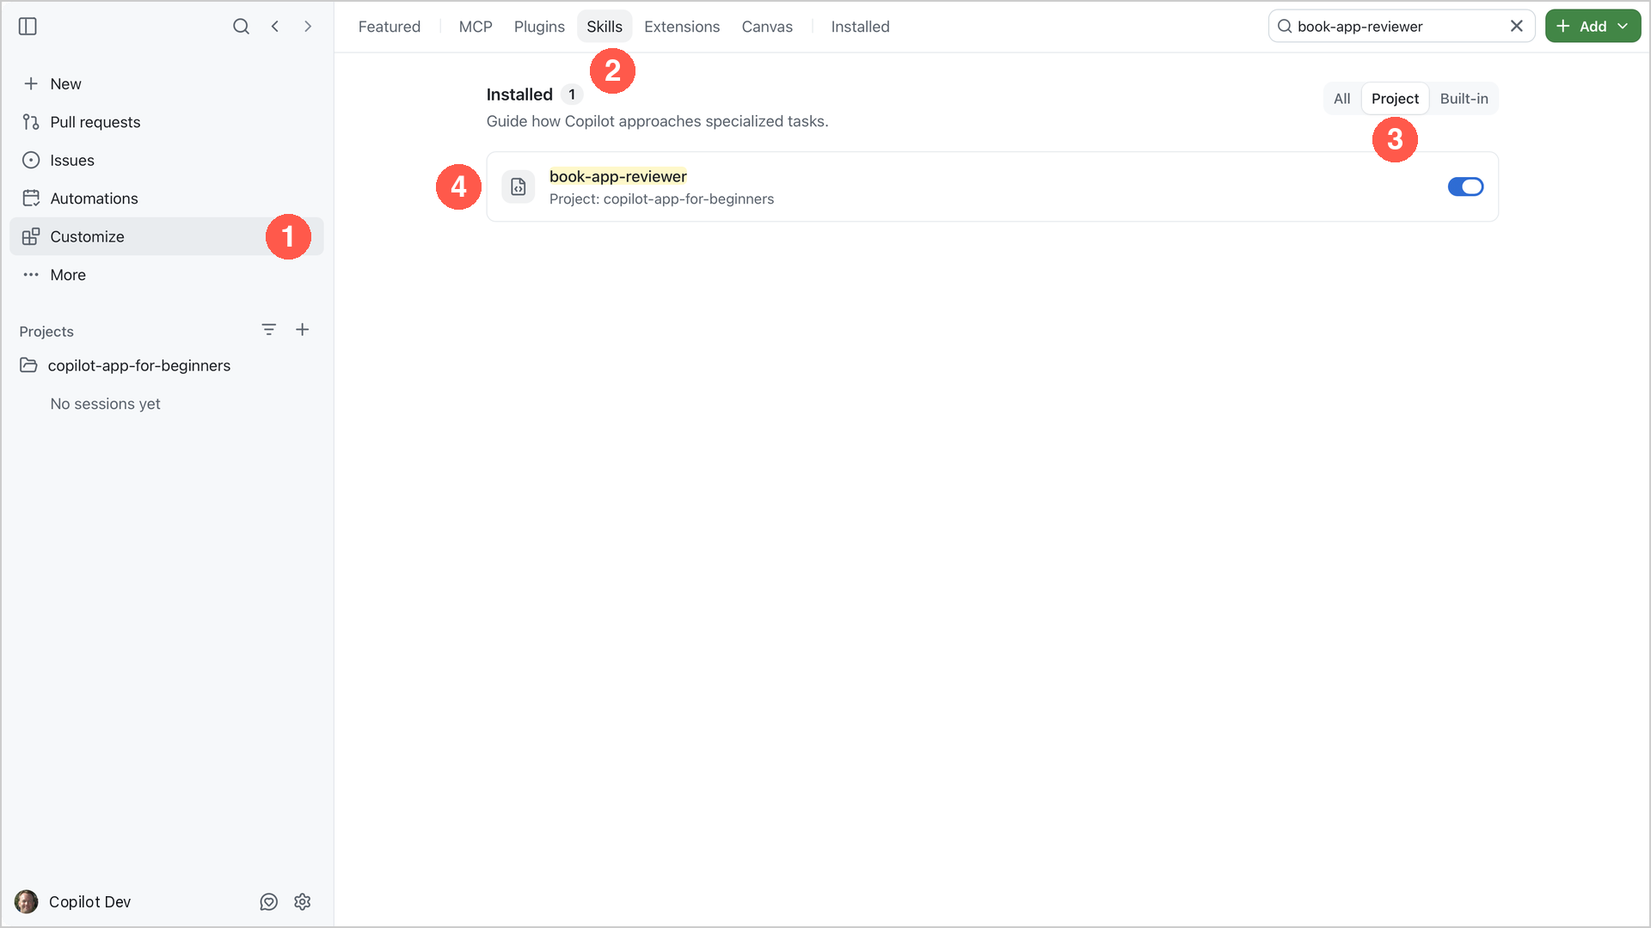
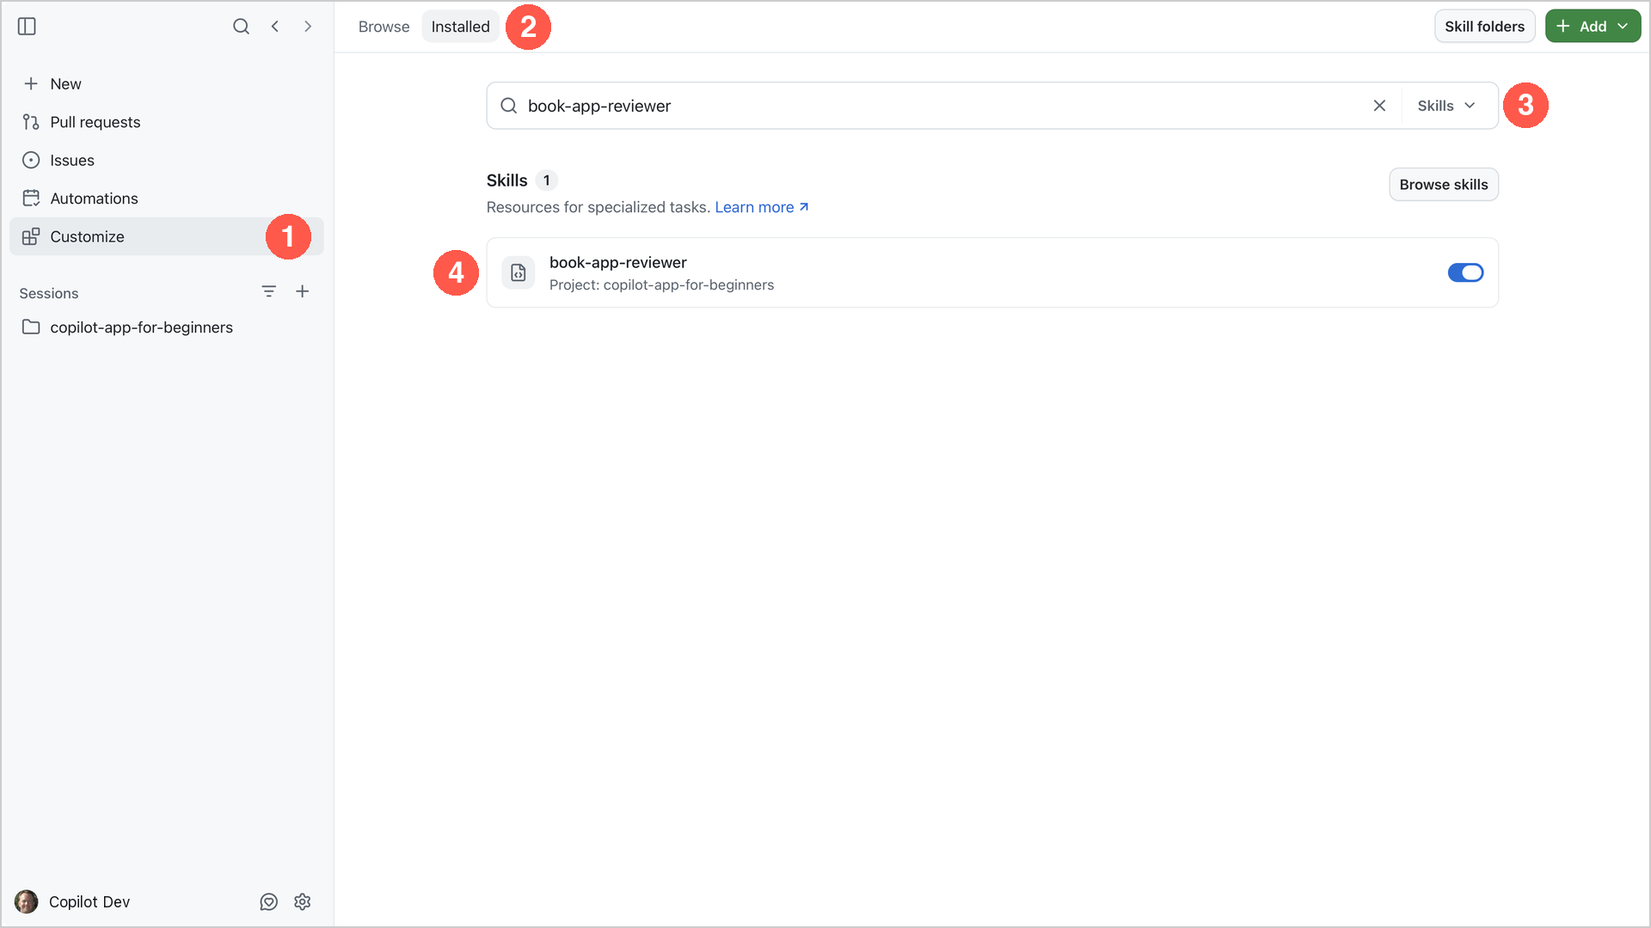
Update Customize and sidebar content for app 1.1.30
Customize now has Browse and Installed tabs with a type filter, and the
sidebar heading is Sessions with no More menu. Update chapter steps, the
troubleshooting appendix, the automation skill UI map, and retake the
three Customize screenshots.

diff --git a/.github/skills/github-copilot-app-automation/references/app-ui-map.md b/.github/skills/github-copilot-app-automation/references/app-ui-map.md
@@ -1,6 +1,6 @@
 # GitHub Copilot app UI Map
 
-- app_version: 1.1.26
+- app_version: 1.1.30 (Customize view and sidebar); other sections 1.1.26
 - captured: 2026-09-30, checked again on 2026-10-01 for 1.1.26 (macOS, `demo`
   persona, Streamer Mode on)
 - privacy: project names, session names, pull request titles, and the account name
@@ -44,11 +44,10 @@ update and diff against this file.
 ## Sidebar (navigation)
 
 - Toggle sidebar (checkbox) · Search · Back · Forward · Resize sidebar
-- **Quick links**: New · Pull requests · Issues · Automations · Customize · More
-  - **More** (AXPopUpButton) has one item, **Edit sidebar...**. That dialog has
-    a check box for each Quick link (New, Pull requests, Issues, Automations,
-    Customize) to show or hide it.
-- **Projects** heading: **Configure sessions** · **New project or session** (+)
+- **Quick links**: New · Pull requests · Issues · Automations · Customize.
+  In 1.1.30 the **More** button (**Edit sidebar...**) is gone, and Settings has
+  no option to hide Quick links.
+- **Sessions** heading (named **Projects** before 1.1.30): **Configure sessions** · **New project or session** (+)
   - Configure sessions: Grouping · Ordering · Show (Project, Branch) · Status ·
     PR · Environment · Source · Reset filters · Collapse all · Mark all as read
   - New project or session (+): Chat · "Start session in" `<project>` (one row
@@ -125,27 +124,44 @@ update and diff against this file.
 
 ## Customize view
 
-- Tabs: Featured · MCP · Plugins · Skills · Extensions · Canvas · Installed;
-  tab-specific search ("Search MCP servers", "Search plugins", "Search skills")
-  and **Add** (MCP Server…, Plugin…, Skill…, Canvas from URL…).
-- MCP: Featured cards and **Available** by category. Search a server name, then
-  **Add server** on its row opens a dialog titled with the server name (About,
-  Configuration: Server name, Server type (Local/HTTP/SSE; the **Server type**
-  label is new in 1.1.26), URL, Headers, OAuth Client ID, Timeout). Installed
-  servers show a connected icon, an enabled toggle, and Actions (right-click
-  the row: Disable, Edit configuration, View on GitHub, Remove; Remove asks
-  "Remove `<name>`?").
-- Plugins: Featured cards and **Available** marketplace rows (copilot-plugins,
-  awesome-copilot). A marketplace is searched only after you expand it. The gear
-  icon is **Manage marketplaces** (Source field, Add marketplace). Installed
-  plugins have Actions (Update, Uninstall) and an enabled toggle.
-- Skills: Installed list with filters All · Project · Built-in. There is no
-  Personal filter.
-- Installed: sections that include **Extensions** and **Canvas** (with a
-  count). Canvas lists the Built-in Editor, Browser, and Terminal canvases,
-  then Personal (user-scoped) canvases. A personal canvas has no uninstall
-  action. Its details show only Copy path and Reveal in Finder, so delete
-  `~/.copilot/extensions/<name>` to remove it.
+Checked on 1.1.30 (2026-10-17). The old tabs (Featured · MCP · Plugins ·
+Skills · Extensions · Canvas · Installed) were replaced.
+
+- Tabs (AXRadioButton in **Customize sections**): **Browse** · **Installed**.
+  Top right: **Add** (AXPopUpButton "Add extension": MCP Server… · Plugin… ·
+  Skill · Canvas from URL… · Manage marketplaces…). With the **Skills** filter,
+  a **Skill folders** button also appears.
+- One search field plus **Filter by type** (AXPopUpButton "Filter by type:
+  `<type>`"): All types · MCP ("External tools and data for agents.") ·
+  Plugins ("Preconfigured Copilot capabilities.") · Skills ("Resources for
+  specialized tasks.") · Extensions ("Extensions from plugins or direct
+  installs.") · Canvas ("Agent-driven workflow interfaces."). The placeholder
+  follows the filter ("Search MCP servers", "Search plugins", "Search skills",
+  "Search installed …"). The search text and filter carry over between tabs.
+  Press the filter button with AXPress; AXShowMenu does not always open it.
+- Browse: **Editor's picks** cards (badge Canvas or Skill; Install or Enable),
+  then **All integrations** with category tabs (All · Plan · Build · Review ·
+  Test · Ship · Monitor · Design · Knowledge · Data · Communication). MCP rows
+  have **Add server, `<name>`**; plugin rows have **Install `<name>`**. An
+  installed item shows its Actions menu, status, and toggle in Browse too.
+- MCP **Add server** opens a dialog titled with the server name (About, View
+  on GitHub, Configuration: Server name, Server type Local/HTTP/SSE, URL,
+  Headers, OAuth Client ID, Timeout; Cancel · Add server). Installed servers
+  show **Connected** (green check icon), an enabled toggle, and Actions
+  (Edit configuration · Remove; Remove asks "Remove `<name>`?").
+- Plugin "view details" opens a dialog with About and "This plugin is not
+  currently installed." (Cancel · Install). It does not show the source
+  repository or marketplace. Marketplaces are not grouped in Browse; search
+  finds plugins directly. **Manage marketplaces…** has a Source field
+  ("owner/repo, Git URL, or local path"), **Add**, and a Marketplaces list
+  (awesome-copilot, Default).
+- Installed: sections **MCP Servers** (Add server) · **Plugins** (Update all,
+  Add plugin; rows with Actions and a toggle) · **Extensions** (Browse
+  extensions) · **Canvas** (Built-in Editor, Browser, Terminal, then plugin
+  and Personal canvases, each with "Open in new session") · **Skills**
+  (Browse skills). Skill rows show the source under the name, for example
+  "Project: `<project>`", with a toggle. There is no All · Project · Built-in
+  filter.
 
 ## Session composer
 
@@ -253,7 +269,7 @@ update and diff against this file.
   from** icons on each project row, appear only while the pointer is over that
   row. Screenshots taken without hover do not show these controls, so do not
   report them as missing. Course steps should tell learners to point to the
-  row first. The **+** next to the **Projects** heading is always visible.
+  row first. The **+** next to the **Sessions** heading is always visible.
 - The **Start session in** group of the Projects **+** menu lists visible
   projects. A first-run learner has no project yet, so hide the project
   (Settings > project > Show in sidebar) to show their menu, then show it again.

diff --git a/05-mcp-plugins/README.md b/05-mcp-plugins/README.md
@@ -75,15 +75,15 @@ A browser extension can connect your browser to a service, such as a password va
 
 Model Context Protocol defines how an AI application connects to tools and data. An **MCP server** supplies those tools. The server can run on your machine or at a remote service.
 
-The graphic shows example connections, not required installations. The app already has tools to read and search local files. Configure MCP connections under **Customize > MCP**, not the app's **Extensions** tab.
+The graphic shows example connections, not required installations. The app already has tools to read and search local files. Configure MCP connections in **Customize** with the type filter set to **MCP**, not **Extensions**.
 
 Use MCP when the task needs information or actions that the current tools don't supply. You don't need to add another GitHub server for the issue and pull request work from Chapter 03.
 
 [Context7][context7] is a documentation service with an MCP server. In this example, it supplies React documentation. It doesn't become a dependency of the Book App.
 
-<img src="assets/app-customize-mcp.webp" alt="Customize MCP filtered to Context7, with one connected and enabled server" width="800" />
+<img src="assets/app-customize-mcp.webp" alt="Customize Installed tab with the MCP filter and a context7 search, showing one connected and enabled Context7 server" width="800" />
 
-The screenshot shows one Context7 connection after setup. Your **Installed** list can be empty before this exercise. Use one connection per service.
+The screenshot shows one Context7 connection after setup. Your **MCP Servers** list on the **Installed** tab can be empty before this exercise. Use one connection per service.
 
 ### Exercise: Check the Book App's Input Labels with Context7
 
@@ -91,7 +91,7 @@ In React, a label's `htmlFor` value can match an input's `id` to connect the lab
 
 Start by getting the Context7 MCP server configured in the GitHub Copilot app. If it's already connected, skip the add-server steps.
 
-1. Open **Customize**, then **MCP**.
+1. Open **Customize**, then select the **Browse** tab. Set the type filter (**All types**) to **MCP**.
 2. Search for `context7`, then select **Add server** on the **Context7** row.
 3. Review the values in the **Context7** configuration dialog:
 
@@ -106,7 +106,7 @@ Start by getting the Context7 MCP server configured in the GitHub Copilot app. I
    <img src="assets/app-context7-configuration.webp" alt="Context7 MCP server dialog with server name context7, HTTP selected, and URL https://mcp.context7.com/mcp" width="800" />
 
 1. Select **Add server**.
-2. Confirm that **Context7** appears under **Installed** in the **MCP** tab, with its connected icon and enabled toggle.
+2. Select the **Installed** tab. Confirm that **Context7** appears under **MCP Servers**, with its connected icon and enabled toggle.
 3. Return to the chapter session you created earlier. Use **Interactive** mode with the default agent.
 4. Submit:
 
@@ -147,15 +147,15 @@ The skill uses `npx` to download and run its documentation tool. Node.js and int
 > [!NOTE]
 > Enterprise-managed settings can restrict which plugins and marketplaces are available in the GitHub Copilot app. If you cannot install `modern-web-guidance` or access the `awesome-copilot` marketplace, read the example and expected output, record the exercise as blocked, and continue. Do not change company-managed settings to complete the exercise.
 
-1. In **Customize**, select **Plugins**.
-2. Search for `modern-web-guidance`, then expand the **awesome-copilot** marketplace under **Available**. The app searches a marketplace only after you expand it. If that marketplace is missing and your policy permits it, select the gear icon (**Manage marketplaces**) and add `github/awesome-copilot`.
+1. In **Customize**, select the **Browse** tab (callout 1). Set the type filter to **Plugins** (callout 2).
+2. Search for `modern-web-guidance` (callout 3). If no result appears, select **Add** > **Manage marketplaces…**. Confirm that **awesome-copilot** is in the **Marketplaces** list. If it's missing and your policy permits it, enter `github/awesome-copilot` in **Source** and select **Add**.
 
-   <img src="assets/app-customize-plugins.webp" alt="Customize Plugins with callouts for Plugins, search, the awesome-copilot marketplace, and Install" width="800" />
+   <img src="assets/app-customize-plugins.webp" alt="Customize Browse tab with callouts for Browse, the Plugins type filter, the modern-web-guidance search, and Install" width="800" />
 
-   The screenshot shows the plugin before installation. After installation, the plugin appears under **Installed** in the **Plugins** tab with its enabled toggle on.
+   The screenshot shows the plugin before installation. After installation, the plugin appears under **Plugins** on the **Installed** tab with its enabled toggle on.
 
-1. Confirm that the plugin's source is `GoogleChrome/modern-web-guidance`. Review the plugin's description, then select **Install** if it isn't already installed.
-2. Confirm that the plugin appears under **Installed** in the **Plugins** tab with its enabled toggle on.
+1. Select **modern-web-guidance** to open its details and review the description. The details don't show the source, so compare them with the [plugin repository][modern-web-guidance] (`GoogleChrome/modern-web-guidance`). Then select **Install** (callout 4) if it isn't already installed.
+2. Select the **Installed** tab. Confirm that the plugin appears under **Plugins** with its enabled toggle on.
 3. Return to the project session in **Interactive** mode with the default agent. Submit `/skills reload`, then type `/` and select the installed `modern-web-guidance` skill. The displayed command can include a plugin prefix. Add this prompt:
 
    ```text

diff --git a/01-tour-the-app/README.md b/01-tour-the-app/README.md
@@ -75,13 +75,9 @@ The **Automations** view is where you create recurring agent tasks. The view sho
 
 This is where you manage the ways to extend the app: skills, Model Context Protocol (MCP) servers, plugins, extensions, and canvases. You don't need any of them yet. Chapter 04 covers skills and custom agents, Chapter 05 covers MCP servers and plugins, and Chapter 06 introduces canvases.
 
-### More
+### Sessions and Chats
 
-Select **More**, then **Edit sidebar...** to choose which of these views appear in the sidebar. This course uses all of them, so keep them visible.
-
-### Projects and Chats
-
-The **Projects** area of the sidebar lists each connected project. After you start your first chat, a **Chats** row also appears there. The next section explains when to use a chat and when to use a project session.
+The **Sessions** area of the sidebar lists each connected project. After you start your first chat, a **Chats** row also appears there. The next section explains when to use a chat and when to use a project session.
 
 ## Chats, Project Sessions, and Modes
 
@@ -104,7 +100,7 @@ The GitHub Copilot app works the same way. First you choose the kind of session.
 
 Chat sessions help you learn and brainstorm without starting a branch. They are useful for general questions before you choose a repository. Try it:
 
-- Select **+** next to **Projects**, then select **Chat**.
+- Select **+** next to **Sessions**, then select **Chat**.
    ![Projects menu with callouts for + and Chat](assets/app-quick-chat.webp)
 - Confirm that the project picker below the prompt box shows **Chat**.
 - Submit the prompt below:
@@ -229,7 +225,7 @@ Go back to the GitHub Copilot app's **Settings** dialog. Select **Voice dictatio
 2. Select **Test mic** to verify that it is working correctly.
 3. Note the keyboard shortcut for activating voice dictation.
 4. Exit the **Settings** dialog and return to the main app window.
-5. Start a new chat (select **+** next to **Projects**, then **Chat**) and test voice dictation by using the keyboard shortcut.
+5. Start a new chat (select **+** next to **Sessions**, then **Chat**) and test voice dictation by using the keyboard shortcut.
 
 </details>
 
@@ -261,7 +257,7 @@ Check your plan, organization policy, project settings, and app version.
 ## Key Takeaways
 
 1. Keep your editor for deep coding. Open the GitHub Copilot app when agent work needs a clearer place to run and review, and jump back to your editor any time.
-2. The app is organized around work surfaces: New for starting work, Pull requests and Issues for GitHub items, Automations for repeatable tasks, Customize for extending the app, and Projects for chats and sessions.
+2. The app is organized around work surfaces: New for starting work, Pull requests and Issues for GitHub items, Automations for repeatable tasks, Customize for extending the app, and Sessions for projects and chats.
 3. **Chat sessions** are for exploration. **Project sessions** are for focused repository work. **Automations** are for repeatable agent runs.
 4. **Interactive**, **Plan**, and **Autopilot** change the level of autonomy.
 5. Choose the model and reasoning effort below the prompt box. Keep the defaults for simple tasks; consider higher effort for complex work.

diff --git a/appendices/troubleshooting-reference.md b/appendices/troubleshooting-reference.md
@@ -66,8 +66,8 @@ Related chapter: [04 Skills and Custom Agents](../04-skills-custom-agents/)
 | Symptom | Likely cause | Try this |
 |---|---|---|
 | Copilot ignores project style | Instructions are missing or too broad | Put stable project guidance in `.github/copilot-instructions.md` |
-| Skill does not seem to apply | Skill location, metadata, or prompt mismatch | Check `.github/skills/.../SKILL.md` and prompt for the skill's purpose. In the app, open **Customize → Skills** and filter to **Project** |
-| Cannot find Skills or Custom Agents | Looking in Settings instead of the relevant picker | Open **Customize → Skills** for skills. Use `/agent` or the prompt-box agent picker for custom agents |
+| Skill does not seem to apply | Skill location, metadata, or prompt mismatch | Check `.github/skills/.../SKILL.md` and prompt for the skill's purpose. In the app, open **Customize → Installed**, set the type filter to **Skills**, and look for **Project:** under the skill name |
+| Cannot find Skills or Custom Agents | Looking in Settings instead of the relevant picker | Open **Customize → Installed** and set the type filter to **Skills**. Use `/agent` or the prompt-box agent picker for custom agents |
 | New custom agent is missing | Profile saved outside the worktree or not reloaded | Check `.github/agents/book-app-explainer.agent.md` in the current worktree. Follow the chapter's same-session restart instructions |
 | Custom agent cannot run tests | The explainer has read and search tools only | Return to the default agent; don't broaden the explainer's tools |
 | Agent has too many tools | Toolset adds noise and risk | Disable tools not needed for the task |
@@ -78,9 +78,9 @@ Related chapter: [05 MCP Servers and Plugins](../05-mcp-plugins/)
 
 | Symptom | Likely cause | Try this |
 |---|---|---|
-| Cannot find MCP or Plugins in Settings | Customization is in the sidebar | Open **Customize → MCP** or **Customize → Plugins** |
+| Cannot find MCP or Plugins in Settings | Customization is in the sidebar | Open **Customize**, then set the type filter to **MCP** or **Plugins** |
 | MCP server fails | Authentication, network, or policy issue | Check connection status, URL, credentials, and organization policy. Don't put credentials in prompts or repository files |
-| Plugin capability is missing | Plugin disabled or its skill hasn't loaded | Check **Customize → Plugins**, run `/skills reload`, and look for a plugin-prefixed skill name. Follow the chapter's restart instructions if needed |
+| Plugin capability is missing | Plugin disabled or its skill hasn't loaded | Check **Plugins** on the **Customize → Installed** tab, run `/skills reload`, and look for a plugin-prefixed skill name. Follow the chapter's restart instructions if needed |
 | Agent cannot use an integration | Read-only explainer is still selected or tool access is blocked | If an agent picker appears below the prompt box, select **Default agent**. Then check approvals and policy |
 | Integration is blocked by policy | Installation or external access isn't permitted | Read the example and expected output, record the limitation, and continue without changing policy |
 

diff --git a/00-setup/README.md b/00-setup/README.md
@@ -53,7 +53,7 @@ The app opens the **New** view. If it shows a short tip about a new feature, you
 
 1. [Fork the course repository on GitHub][fork-repo-link]. A fork is your own copy of the repository that lives on GitHub.
 
-2. In the Copilot app, select **+** next to **Projects**, then select **Add GitHub repository**.
+2. In the Copilot app, select **+** next to **Sessions**, then select **Add GitHub repository**.
 
     ![Projects menu with callouts for + and Add GitHub repository](assets/app-add-project.webp)
 
@@ -62,7 +62,7 @@ The app opens the **New** view. If it shows a short tip about a new feature, you
 <details>
 <summary>Other ways to connect a repository</summary>
 
-Select **+** next to **Projects**, then choose the option that matches what you have:
+Select **+** next to **Sessions**, then choose the option that matches what you have:
 
 | If you have... | Select |
 |---|---|
@@ -76,7 +76,7 @@ Select **+** next to **Projects**, then choose the option that matches what you 
 > [!NOTE]
 > Use the GitHub Copilot app's **Terminal** tab to run commands. Use the prompt box to send requests to the agent.
 
-1. Confirm that the sidebar shows `copilot-app-for-beginners` under **Projects**.
+1. Confirm that the sidebar shows `copilot-app-for-beginners` under **Sessions**.
 
 1. Point to the `copilot-app-for-beginners` project in the sidebar. Select the **+** that appears next to it to start a project session.
 

diff --git a/04-skills-custom-agents/README.md b/04-skills-custom-agents/README.md
@@ -101,17 +101,13 @@ You will add two specific review rules, then use the updated skill. You will not
 
 HTML heading levels (`h1`, `h2`, and `h3`) describe the page structure, not just text size. Text alternatives convey the meaning of images and icons to people who cannot see them. A screen reader can read these alternatives aloud.
 
-1. Select **Customize**, then **Skills**.
+1. Select **Customize** (callout 1), then select the **Installed** tab (callout 2).
 
-1. Filter to **Project** and search for `book-app-reviewer`.
+1. Set the type filter to **Skills** (callout 3) and search for `book-app-reviewer`.
 
-1. Confirm that the skill is enabled for the course project. Ignore the course-authoring skills.
+1. Confirm that the result shows **Project: copilot-app-for-beginners** and that its toggle is on (callout 4). Ignore the course-authoring skills.
 
-    - **All** shows every installed skill
-    - **Project** shows repository skills
-    - **Built-in** shows skills supplied with the app
-
-   ![Customize Skills with callouts for Customize, Skills, Project, and the book-app-reviewer result](assets/app-customize-skills.webp)
+   ![Customize Installed tab with callouts for Customize, Installed, the Skills type filter, and the book-app-reviewer result](assets/app-customize-skills.webp)
 
 1. Return to your chapter session and submit:
 

diff --git a/.github/skills/github-copilot-app-automation/SKILL.md b/.github/skills/github-copilot-app-automation/SKILL.md
@@ -149,7 +149,7 @@ Observed on this machine:
 
 After macOS Accessibility permission was enabled, `System Events` could address the app as process `GitHub Copilot`.
 
-Useful exposed controls (app 1.1.26; see [app-ui-map.md](references/app-ui-map.md) for the full map):
+Useful exposed controls (app 1.1.26, Customize and sidebar 1.1.30; see [app-ui-map.md](references/app-ui-map.md) for the full map):
 
 | Control | Role | Use |
 |---|---|---|
@@ -158,7 +158,8 @@ Useful exposed controls (app 1.1.26; see [app-ui-map.md](references/app-ui-map.m
 | `Sidebar` | `AXGroup` | Sidebar region |
 | `Toggle sidebar, Command + B` | `AXCheckBox` | Collapse/expand sidebar |
 | `New`, `Pull requests`, `Issues`, `Automations`, `Customize` | `AXButton` | Sidebar views (Quick links) |
-| `More` | `AXPopUpButton` | Sidebar menu with **Edit sidebar...** |
+| `Customize sections` | `AXTabGroup` | Customize **Browse** and **Installed** tabs (1.1.30) |
+| `Filter by type: <type>` | `AXPopUpButton` | Customize type filter: All types, MCP, Plugins, Skills, Extensions, Canvas |
 | `New project or session` | `AXPopUpButton` | Projects **+** menu |
 | `New session in <project>` | `AXButton` | Project-specific new session entry (visible on hover or focus) |
 | `Message` | `AXTextArea` | Prompt composer |

diff --git a/06-canvases/README.md b/06-canvases/README.md
@@ -102,7 +102,7 @@ Before building your own canvas, try one from the community. [Awesome GitHub Cop
 
     - In the **Install plugin?** dialog, select **Allow**.
     - In the **Install plugin** dialog, confirm that the name is `accessibility-kanban@awesome-copilot`, then select **Install**.
-    - Confirm that the plugin appears under **Installed** in **Customize** > **Plugins**, with its toggle on.
+    - Select **Customize**, then the **Installed** tab. Confirm that the plugin appears under **Plugins**, with its toggle on.
 
 1. Return to the worktree session you prepared in the prerequisites and submit the prompt `Restart canvas extensions`. This will reload the extensions and pick up the newly installed one.
 1. In the review panel, select **+** (**Add tab**), then **Canvas**, and select **Repository Issues Kanban**. If the review panel is hidden, select **View** > **Toggle Review Panel** first. The package is named `accessibility-kanban`, but **Repository Issues Kanban** is the name shown in the app.
